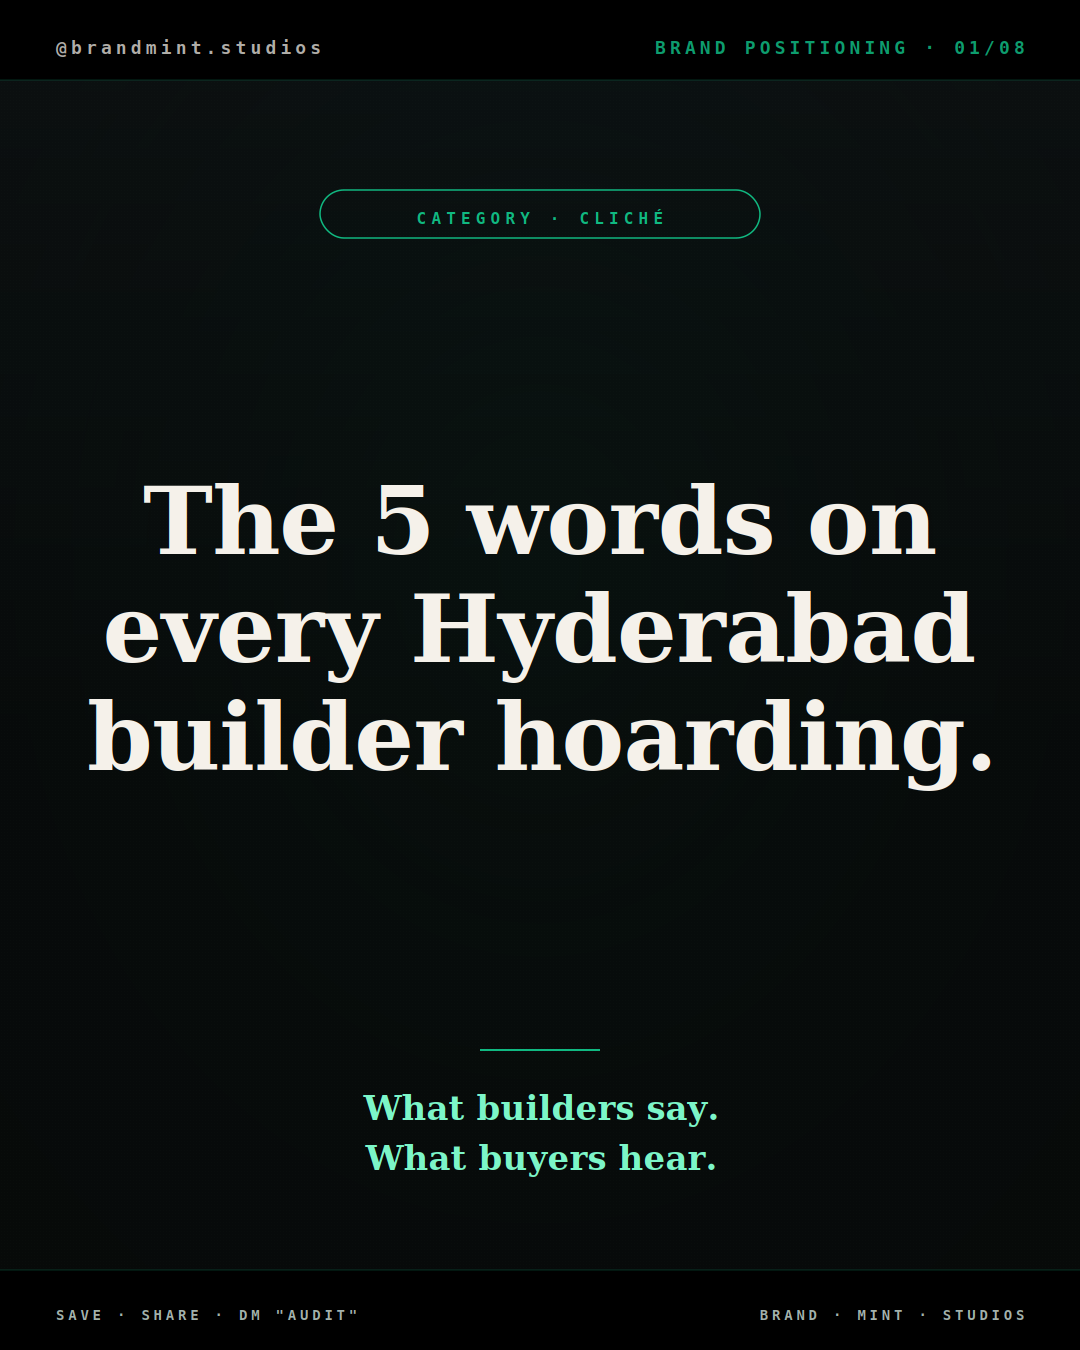
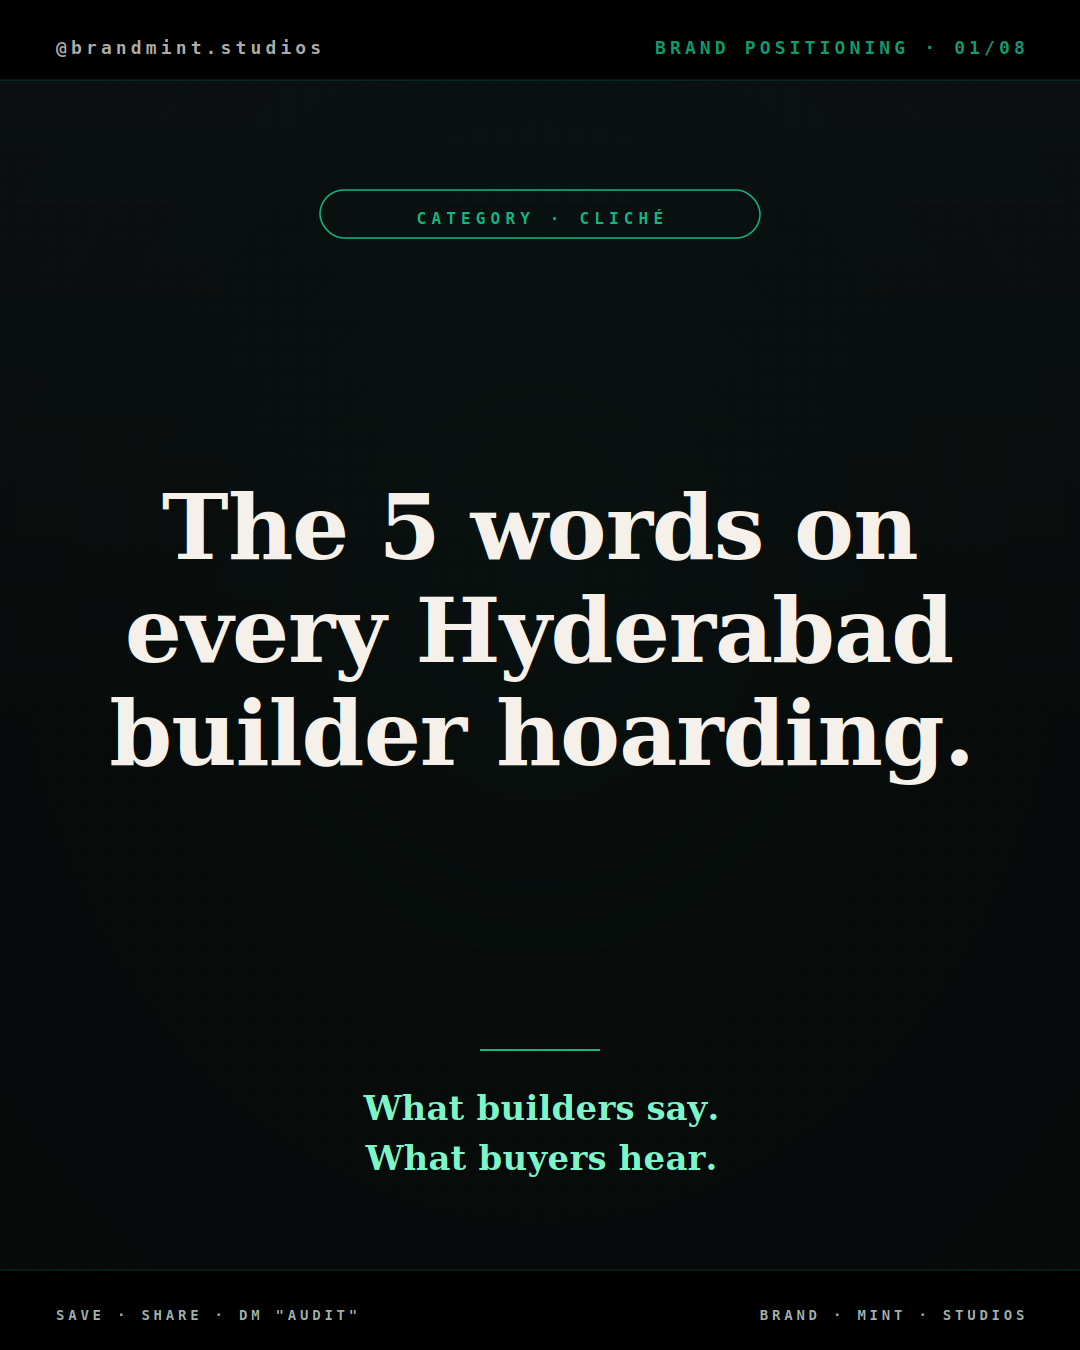
Fix text bleed on episode splashes + lock spacing rules
The EP02 splash was rendering 'Before the towers,' at a hardcoded
108pt italic, which overflowed the 1080px canvas on the left and right
edges (visible bleed reported by user). All four v13 build scripts had
the same risk pattern.

Fix: added fit_to_width() helper to every build script. Display text now
auto-shrinks to fit within SAFE_TEXT_W=920px (80px margin each side),
which is safe for both native MP4 playback and Instagram Reels viewing
(right-side action column considered).

Re-rendered all 4 episodes (scored + silent) with the new fit logic.
Verified each splash has clear margin to the canvas edge.

Added brand-kit/SPACING-GUIDELINES.md as the source of truth for safe
canvas zones, font scaling, and a pre-flight checklist. Linked from
INSTAGRAM-BRIEF.md so every future render must follow the doc.

Also tightened build_extra_post_01.py from max_w_px=960 to =920 for
consistency.

Changed region(s): [[0.4278, 0.3422, 0.9167, 0.5911], [0.0611, 0.3422, 0.4583, 0.5911]]

diff --git a/brand-kit/video/v13-hyderabad-empires/build_ep02.py b/brand-kit/video/v13-hyderabad-empires/build_ep02.py
@@ -88,6 +88,21 @@ def measure(text: str, pt: int, kind: str = "bold") -> float:
     l, _, r, _ = _font(pt, kind).getbbox(text)
     return float(r - l)
 
+# IG Reels safe text width — 1080 canvas with 80px margin each side
+# leaves 920px for content. Conservative enough for the right-side
+# action column when posted as a Reel.
+SAFE_TEXT_W = 920
+
+def fit_to_width(text: str, max_w_px: float, start_pt: int,
+                 floor_pt: int = 32, kind: str = "bold",
+                 step: int = 2) -> int:
+    """Largest pt at which `text` fits in `max_w_px`. Used for every big
+    display line so nothing overflows the canvas at any phone aspect."""
+    for pt in range(start_pt, floor_pt - 1, -step):
+        if measure(text, pt, kind) <= max_w_px:
+            return pt
+    return floor_pt
+
 # ------------------------------------------------------- empire data ---
 # Ranks 13 → 09 from "Hyderabad's Empires: Episode One — The 13 Titans
 # of Hyderabad Real Estate" (2026 edition). Reveal order: countdown
@@ -265,11 +280,17 @@ def chrome_overlay(intro_t: float) -> str:
 
 def render_splash(beat: Beat, local: float, scale: float) -> str:
     """EP02 cover splash: 'Before the towers, / there were / THESE 5 /
-    builders.' Held ~1.5s as the IG feed thumbnail."""
+    builders.' Held ~1.5s as the IG feed thumbnail. Every big line is
+    fit-to-width against SAFE_TEXT_W so nothing bleeds off-canvas."""
     cx = W // 2
     pulse = 1.0 + 0.015 * math.sin(local * math.pi * 1.6)
     op = 1.0 if local < 0.85 else max(0.0, 1.0 - (local - 0.85) / 0.15)
-    big_pt = int(142 * pulse)
+
+    line1_pt = fit_to_width(beat.text,   SAFE_TEXT_W, start_pt=108, kind="serif")
+    line2_pt = fit_to_width("there were", SAFE_TEXT_W, start_pt=108, kind="serif")
+    big_pt_base = fit_to_width("THESE 5", SAFE_TEXT_W, start_pt=142, kind="bold")
+    big_pt = int(big_pt_base * pulse)
+    line4_pt = fit_to_width(beat.text2,  SAFE_TEXT_W, start_pt=108, kind="serif")
 
     return f"""
       <g opacity="{op:.3f}">
@@ -279,16 +300,16 @@ def render_splash(beat: Beat, local: float, scale: float) -> str:
         <line x1="{cx - 70}" y1="530" x2="{cx + 70}" y2="530"
               stroke="{MINT}" stroke-width="2"/>
 
-        <text x="{cx}" y="730" font-family="{FONT_SERIF}" font-size="108"
+        <text x="{cx}" y="730" font-family="{FONT_SERIF}" font-size="{line1_pt}"
               font-weight="700" fill="{PAPER}" text-anchor="middle"
               font-style="italic">{beat.text}</text>
-        <text x="{cx}" y="850" font-family="{FONT_SERIF}" font-size="108"
+        <text x="{cx}" y="850" font-family="{FONT_SERIF}" font-size="{line2_pt}"
               font-weight="700" fill="{PAPER}" text-anchor="middle"
               font-style="italic">there were</text>
         <text x="{cx}" y="1000" font-family="{FONT_DISPLAY}" font-size="{big_pt}"
               font-weight="900" fill="{MINT}" text-anchor="middle"
               letter-spacing="-0.01em">THESE 5</text>
-        <text x="{cx}" y="1120" font-family="{FONT_SERIF}" font-size="108"
+        <text x="{cx}" y="1120" font-family="{FONT_SERIF}" font-size="{line4_pt}"
               font-weight="700" fill="{PAPER}" text-anchor="middle"
               font-style="italic">{beat.text2}</text>
 

diff --git a/brand-kit/video/v13-hyderabad-empires/build_empires.py b/brand-kit/video/v13-hyderabad-empires/build_empires.py
@@ -91,6 +91,20 @@ def _font(pt: int, kind: str = "bold"):
         _font_cache[key] = ImageFont.truetype(path, pt)
     return _font_cache[key]
 
+# IG Reels safe text width — 1080 canvas with 80px margin each side
+# leaves 920px for content. Any display line that risks being long
+# (splash phrases, builder names, hooks) must call fit_to_width() first.
+SAFE_TEXT_W = 920
+
+def fit_to_width(text: str, max_w_px: float, start_pt: int,
+                 floor_pt: int = 32, kind: str = "bold",
+                 step: int = 2) -> int:
+    for pt in range(start_pt, floor_pt - 1, -step):
+        l, _, r, _ = _font(pt, kind).getbbox(text or "")
+        if (r - l) <= max_w_px:
+            return pt
+    return floor_pt
+
 def measure(text: str, pt: int, kind: str = "bold") -> float:
     if not text:
         return 0.0
@@ -309,7 +323,11 @@ def render_splash(beat: Beat, local: float, scale: float) -> str:
     # gentle fade-out at the very end so the transition to intro is smooth
     op = 1.0 if local < 0.85 else max(0.0, 1.0 - (local - 0.85) / 0.15)
 
-    big_pt = int(142 * pulse)
+    line1_pt = fit_to_width(beat.text,    SAFE_TEXT_W, start_pt=108, kind="serif")
+    line2_pt = fit_to_width("Hyderabad's", SAFE_TEXT_W, start_pt=108, kind="serif")
+    big_pt_base = fit_to_width("8 BIGGEST", SAFE_TEXT_W, start_pt=142, kind="bold")
+    big_pt = int(big_pt_base * pulse)
+    line4_pt = fit_to_width(beat.text2,   SAFE_TEXT_W, start_pt=108, kind="serif")
 
     return f"""
       <g opacity="{op:.3f}">
@@ -319,16 +337,16 @@ def render_splash(beat: Beat, local: float, scale: float) -> str:
         <line x1="{cx - 70}" y1="530" x2="{cx + 70}" y2="530"
               stroke="{MINT}" stroke-width="2"/>
 
-        <text x="{cx}" y="730" font-family="{FONT_SERIF}" font-size="108"
+        <text x="{cx}" y="730" font-family="{FONT_SERIF}" font-size="{line1_pt}"
               font-weight="700" fill="{PAPER}" text-anchor="middle"
               font-style="italic">{beat.text}</text>
-        <text x="{cx}" y="850" font-family="{FONT_SERIF}" font-size="108"
+        <text x="{cx}" y="850" font-family="{FONT_SERIF}" font-size="{line2_pt}"
               font-weight="700" fill="{PAPER}" text-anchor="middle"
               font-style="italic">Hyderabad's</text>
         <text x="{cx}" y="1000" font-family="{FONT_DISPLAY}" font-size="{big_pt}"
               font-weight="900" fill="{MINT}" text-anchor="middle"
               letter-spacing="-0.01em">8 BIGGEST</text>
-        <text x="{cx}" y="1120" font-family="{FONT_SERIF}" font-size="108"
+        <text x="{cx}" y="1120" font-family="{FONT_SERIF}" font-size="{line4_pt}"
               font-weight="700" fill="{PAPER}" text-anchor="middle"
               font-style="italic">{beat.text2}</text>
 

diff --git a/brand-kit/video/v13-hyderabad-empires/build_ep03.py b/brand-kit/video/v13-hyderabad-empires/build_ep03.py
@@ -85,6 +85,19 @@ def measure(text: str, pt: int, kind: str = "bold") -> float:
     l, _, r, _ = _font(pt, kind).getbbox(text)
     return float(r - l)
 
+# IG Reels safe text width — 1080 canvas with 80px margin each side
+# leaves 920px for content. Any display line that risks being long
+# (splash phrases, brand names, hooks) must call fit_to_width() first.
+SAFE_TEXT_W = 920
+
+def fit_to_width(text: str, max_w_px: float, start_pt: int,
+                 floor_pt: int = 32, kind: str = "bold",
+                 step: int = 2) -> int:
+    for pt in range(start_pt, floor_pt - 1, -step):
+        if measure(text or "", pt, kind) <= max_w_px:
+            return pt
+    return floor_pt
+
 # ------------------------------------------------------- builder roster ---
 # Countdown 5 → 1. Modcon is #1 — it's the cliffhanger that hands off
 # to EP04. Other 4 are placeholders until verified data lands.
@@ -217,7 +230,11 @@ def render_splash(beat: Beat, local: float, scale: float) -> str:
     cx = W // 2
     pulse = 1.0 + 0.015 * math.sin(local * math.pi * 1.6)
     op = 1.0 if local < 0.85 else max(0.0, 1.0 - (local - 0.85) / 0.15)
-    big_pt = int(132 * pulse)
+
+    line1_pt = fit_to_width(beat.text,  SAFE_TEXT_W, start_pt=108, kind="serif")
+    line2_pt = fit_to_width(beat.text2, SAFE_TEXT_W, start_pt=108, kind="serif")
+    big_pt_base = fit_to_width("5 EMERGING", SAFE_TEXT_W, start_pt=132, kind="bold")
+    big_pt = int(big_pt_base * pulse)
 
     return f"""
       <g opacity="{op:.3f}">
@@ -227,10 +244,10 @@ def render_splash(beat: Beat, local: float, scale: float) -> str:
         <line x1="{cx - 70}" y1="530" x2="{cx + 70}" y2="530"
               stroke="{MINT}" stroke-width="2"/>
 
-        <text x="{cx}" y="730" font-family="{FONT_SERIF}" font-size="108"
+        <text x="{cx}" y="730" font-family="{FONT_SERIF}" font-size="{line1_pt}"
               font-weight="700" fill="{PAPER}" text-anchor="middle"
               font-style="italic">{beat.text}</text>
-        <text x="{cx}" y="870" font-family="{FONT_SERIF}" font-size="108"
+        <text x="{cx}" y="870" font-family="{FONT_SERIF}" font-size="{line2_pt}"
               font-weight="700" fill="{PAPER}" text-anchor="middle"
               font-style="italic">{beat.text2}</text>
 

diff --git a/brand-kit/video/v13-hyderabad-empires/build_ep04.py b/brand-kit/video/v13-hyderabad-empires/build_ep04.py
@@ -87,6 +87,19 @@ def measure(text: str, pt: int, kind: str = "bold") -> float:
     l, _, r, _ = _font(pt, kind).getbbox(text)
     return float(r - l)
 
+# IG Reels safe text width — 1080 canvas with 80px margin each side
+# leaves 920px for content. Any display line that risks being long
+# (splash phrases, project names, descriptors) must call fit_to_width().
+SAFE_TEXT_W = 920
+
+def fit_to_width(text: str, max_w_px: float, start_pt: int,
+                 floor_pt: int = 32, kind: str = "bold",
+                 step: int = 2) -> int:
+    for pt in range(start_pt, floor_pt - 1, -step):
+        if measure(text or "", pt, kind) <= max_w_px:
+            return pt
+    return floor_pt
+
 # ------------------------------------------------------- beat schedule ---
 
 @dataclass
@@ -208,7 +221,11 @@ def render_splash(beat: Beat, local: float, scale: float) -> str:
     cx = W // 2
     pulse = 1.0 + 0.015 * math.sin(local * math.pi * 1.6)
     op = 1.0 if local < 0.85 else max(0.0, 1.0 - (local - 0.85) / 0.15)
-    big_pt = int(132 * pulse)
+
+    line1_pt = fit_to_width(beat.text,  SAFE_TEXT_W, start_pt=100, kind="serif")
+    line2_pt = fit_to_width(beat.text2, SAFE_TEXT_W, start_pt=100, kind="serif")
+    big_pt_base = fit_to_width("MODCON", SAFE_TEXT_W, start_pt=132, kind="bold")
+    big_pt = int(big_pt_base * pulse)
 
     return f"""
       <g opacity="{op:.3f}">
@@ -218,10 +235,10 @@ def render_splash(beat: Beat, local: float, scale: float) -> str:
         <line x1="{cx - 80}" y1="530" x2="{cx + 80}" y2="530"
               stroke="{SAND}" stroke-width="2"/>
 
-        <text x="{cx}" y="730" font-family="{FONT_SERIF}" font-size="100"
+        <text x="{cx}" y="730" font-family="{FONT_SERIF}" font-size="{line1_pt}"
               font-weight="700" fill="{PAPER}" text-anchor="middle"
               font-style="italic">{beat.text}</text>
-        <text x="{cx}" y="850" font-family="{FONT_SERIF}" font-size="100"
+        <text x="{cx}" y="850" font-family="{FONT_SERIF}" font-size="{line2_pt}"
               font-weight="700" fill="{PAPER}" text-anchor="middle"
               font-style="italic">{beat.text2}</text>
 

diff --git a/brand-kit/scripts/build_extra_post_01.py b/brand-kit/scripts/build_extra_post_01.py
@@ -125,7 +125,7 @@ def chrome_bottom():
 def render_cover():
     cx = W // 2
     hook_lines = ["The 5 words on", "every Hyderabad", "builder hoarding."]
-    hook_pt = fit_size(hook_lines, max_w_px=960, start_pt=98)
+    hook_pt = fit_size(hook_lines, max_w_px=920, start_pt=98)
     line_h = int(hook_pt * 1.15)
     block_top = (H // 2) - (line_h * len(hook_lines)) // 2 - 40
 

diff --git a/brand-kit/SPACING-GUIDELINES.md b/brand-kit/SPACING-GUIDELINES.md
@@ -1,0 +1,132 @@
+# Visual Spacing Guidelines
+
+Source of truth for every text-placement decision across @brandmint.studios
+content. Locked because earlier renders bled text off the canvas — this
+doc + the `fit_to_width()` helpers in each build script prevent it from
+recurring.
+
+---
+
+## Canvas specs
+
+| Format | Resolution | Used for |
+|---|---|---|
+| Reel / Story / Video | 1080 × 1920 (9:16) | All `build_*.py` videos in `brand-kit/video/v13-hyderabad-empires/` |
+| Feed post (portrait) | 1080 × 1350 (4:5) | Carousel slides, single statics, covers (`brand-kit/scripts/render_*.py`) |
+| Feed post (square) | 1080 × 1080 (1:1) | Not used currently — reserved for future use |
+
+---
+
+## Safe text width — `SAFE_TEXT_W = 920`
+
+Any display line at any size **must** fit inside 920px. This leaves 80px
+margin on each side of a 1080px canvas — enough for:
+
+- The Instagram right-side action column when posted as a Reel
+- Cropping on phones with non-standard aspect ratios
+- Native viewing in messenger apps / WhatsApp / Telegram (which don't
+  apply Instagram's safe-area padding)
+
+**Implementation:** every `build_*.py` and renderer script ships a
+`fit_to_width(text, max_w_px=SAFE_TEXT_W, start_pt, kind)` helper.
+Display text **never** uses a hard-coded `font-size=` for anything that
+could be longer than ~10 characters.
+
+```python
+# Before (buggy — could overflow):
+<text font-size="108">Before the towers,</text>
+
+# After (correct — auto-shrinks to fit):
+pt = fit_to_width("Before the towers,", SAFE_TEXT_W, start_pt=108, kind="serif")
+<text font-size="{pt}">Before the towers,</text>
+```
+
+---
+
+## Vertical safe zones (1080 × 1920 video)
+
+| Zone | Y range | What lives here |
+|---|---|---|
+| Top chrome | 0 - 110 | Letterbox bar — no text |
+| Top safe area | 110 - 250 | Handle (`@brandmint.studios`) + episode label only — kept small (18-22pt mono) |
+| Display zone | 250 - 1580 | All hero text, titles, body copy, big numerals |
+| Bottom safe area | 1580 - 1810 | Sub-eyebrows, tags, closer marks |
+| Bottom chrome | 1810 - 1920 | Letterbox bar — no text |
+
+**Reasoning:** IG Reels overlay caption + action buttons in the bottom
+~340px and a profile/audio strip in the top ~250px when viewed in-feed.
+Any text in those zones risks being covered.
+
+## Vertical safe zones (1080 × 1350 carousel / cover)
+
+| Zone | Y range | What lives here |
+|---|---|---|
+| Top chrome | 0 - 80 | Letterbox bar — handle + post number only |
+| Eyebrow zone | 80 - 260 | Pillar chip / slide-number chip |
+| Display zone | 260 - 1090 | Title + body + rule |
+| Tag zone | 1090 - 1230 | Mono tag line (optional) |
+| Bottom chrome | 1230 - 1350 | Letterbox bar — `SAVE · SHARE · FOLLOW` |
+
+## Letterbox bars
+
+| Format | Bar height | Why |
+|---|---|---|
+| Reels video | 110px top + 110px bottom | Pushes text into the visible safe area; consistent v13 frame style |
+| Feed post | 80px top + 80px bottom | Same look at portrait aspect |
+
+The bars are pure `#000` with a 1px mint hairline at the inner edge.
+They are **not optional** — they are part of the v13 identity.
+
+---
+
+## Font sizes & line counts
+
+Rule of thumb (after `fit_to_width` runs):
+
+| Element | Max start pt | Max lines | Notes |
+|---|---|---|---|
+| Big numeral / rank | 280 | 1 | "01", "02" etc. |
+| Hero serif title | 108 | 2-3 | Always italic serif |
+| Hero sans display | 142 | 1 | Tight letter-spacing (`-0.01em`) |
+| Sub-display | 60 | 1 | Letter-spacing `0.24em` for caps |
+| Body italic serif | 46 | 4 | Bright-mint `#7CF6C8` |
+| Mono eyebrow | 22-24 | 1 | Letter-spacing `0.30-0.36em` |
+| Mono tag | 14-16 | 1 | Letter-spacing `0.30em` |
+
+When `fit_to_width` shrinks below 70% of the `start_pt`, **split the line
+into two** rather than rendering tiny text. Body copy that wraps to
+4+ lines should be re-edited shorter.
+
+---
+
+## Color contrast
+
+Background `#070A09` (warm-black) requires WCAG AA contrast on text:
+
+| Token | Hex | AA check (against `#070A09`) |
+|---|---|---|
+| `PAPER` | `#F5F1EA` | ✅ 18.7:1 |
+| `MINT` | `#10B981` | ✅ 5.8:1 (use for ≥18pt) |
+| `MINT_2` | `#7CF6C8` | ✅ 12.4:1 |
+| `PAPER_DIM` | `#A3B2AC` | ✅ 7.9:1 |
+| `MUTE` | `#5D7368` | ⚠️ 3.4:1 — chrome / decorative only |
+
+---
+
+## Pre-flight checklist
+
+Before shipping any new render:
+
+1. [ ] Did every display line route through `fit_to_width(SAFE_TEXT_W, …)`?
+2. [ ] Are all hero text Y-positions inside `[BAR_H + 140, H - BAR_H - 280]`?
+3. [ ] Is there at least 1 letterbox bar height between the bottom-most
+       text and the bottom of the canvas?
+4. [ ] Pause-grab a representative frame and overlay a 920px-wide
+       safe-rect on it — nothing should poke out.
+5. [ ] If the cover is for a Reel, view the MP4 in a phone messenger
+       (WhatsApp / Telegram), not just the desktop player.
+
+---
+
+*Last updated 2026-05-23 · maintained by Claude on
+`claude/social-media-video-generation-Mj4u6`*

diff --git a/brand-kit/content/INSTAGRAM-BRIEF.md b/brand-kit/content/INSTAGRAM-BRIEF.md
@@ -125,6 +125,11 @@ Pricing never appears in feed posts. Route to DM.
 
 ## Visual systems
 
+> **Every render must follow `brand-kit/SPACING-GUIDELINES.md`.**
+> Display text routes through `fit_to_width(SAFE_TEXT_W=920, …)`. No
+> hard-coded `font-size` on lines longer than ~10 characters. Run the
+> pre-flight checklist in the spacing doc before shipping a render.
+
 ### Track A — v13 editorial
 
 - Background `#070A09` (warm-black)